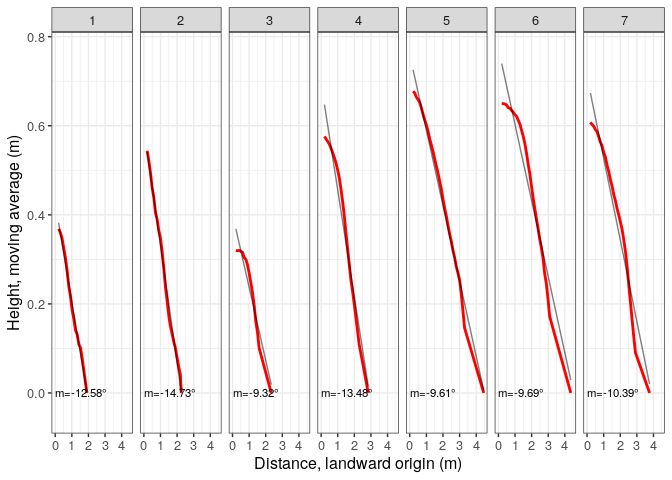
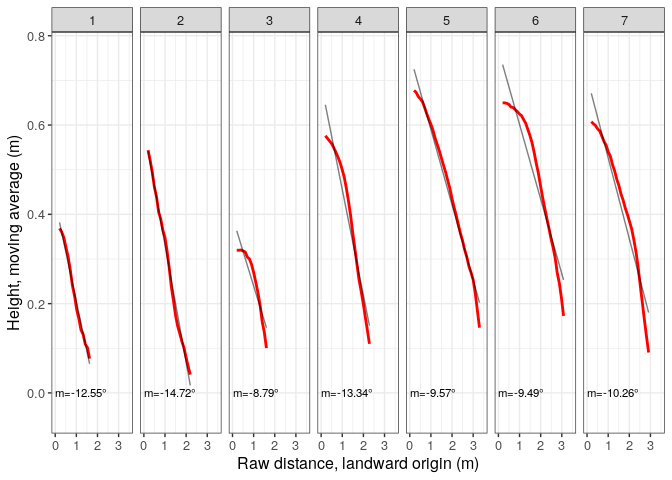
Reordered dimensional plots

diff --git a/README.md b/README.md
@@ -175,58 +175,9 @@ profData
 Profile plots
 -------------
 
-### Unit dimensions
+### Dimensionsional profiles
 
-``` r
-#Not comparable scales, neither between x and y nor across panels
-dmngrid <- profData$dimension %>% drop_units %>% ggplot() +
-  aes(x = distlm, y = hma) +
-  geom_line(col = 'red', lwd = 1, na.rm = T) +
-  scale_x_continuous(breaks = pretty_breaks()) +
-  scale_y_continuous(breaks = pretty_breaks()) +
-  expand_limits(y = -0.05) +
-  ylab('Height, moving average (m)') + xlab('Distance, landward origin (m)') +
-  geom_text(
-    data = profData$slope %>% drop_units,
-    aes(x = 0, y = 0, label = paste0('m=', round(slopeDeg,2), '°')),
-    size = 3,
-    hjust = 0,
-    parse = F
-  ) +
-  facet_wrap(~transect, nrow = 2, scales = 'free') +
-  theme_bw() + 
-  theme(text = element_text(size = 12))
-dmngrid
-```
-
-<img src="img/unnamed-chunk-5-1.png" width="100%" />
-
-``` r
-
-#Not comparable scales between x and y
-dmngrid +
-  stat_smooth(
-    aes(x = distlm, y = hma), geom = 'line', color = 'black',
-    alpha = 0.5, formula = y~x, method = 'lm', na.rm = T) +
-  facet_grid(~transect) 
-```
-
-<img src="img/unnamed-chunk-5-2.png" width="100%" />
-
-``` r
-#Equal xy scales, no vertical exaggeration
-dmngrid + facet_wrap(~transect, nrow = 7) + coord_equal() #Not so informative but panels are comparable
-```
-
-<img src="img/unnamed-chunk-6-1.png" width="100%" />
-
-``` r
-
-#Equal scales, vertical exaggeration by 2x
-dmngrid + facet_wrap(~transect, nrow = 7) + coord_equal(ratio = 2)
-```
-
-<img src="img/unnamed-chunk-6-2.png" width="100%" />
+#### The profile stretches exactly up to the actual digitized extension
 
 ``` r
 #Raw distance
@@ -250,7 +201,7 @@ dmngridrawd <- profData$dimension %>% drop_units %>% ggplot() +
 dmngridrawd
 ```
 
-<img src="img/unnamed-chunk-7-1.png" width="100%" />
+<img src="img/unnamed-chunk-5-1.png" width="100%" />
 
 ``` r
 
@@ -262,11 +213,64 @@ dmngridrawd +
   facet_grid(~transect) 
 ```
 
-<img src="img/unnamed-chunk-7-2.png" width="100%" />
+<img src="img/unnamed-chunk-5-2.png" width="100%" />
 
 ``` r
 #Equal xy scales, no vertical exaggeration
 dmngridrawd + facet_wrap(~transect, nrow = 7) + coord_equal() #Not so informative but panels are comparable
+```
+
+<img src="img/unnamed-chunk-6-1.png" width="100%" />
+
+``` r
+
+#Equal scales, vertical exaggeration by 2x
+dmngridrawd + facet_wrap(~transect, nrow = 7) + coord_equal(ratio = 2)
+```
+
+<img src="img/unnamed-chunk-6-2.png" width="100%" />
+
+#### Extending the profile to a conventionally chosen zero using linear regression
+
+``` r
+#Not comparable scales, neither between x and y nor across panels
+dmngrid <- profData$dimension %>% drop_units %>% ggplot() +
+  aes(x = distlm, y = hma) +
+  geom_line(col = 'red', lwd = 1, na.rm = T) +
+  scale_x_continuous(breaks = pretty_breaks()) +
+  scale_y_continuous(breaks = pretty_breaks()) +
+  expand_limits(y = -0.05) +
+  ylab('Height, moving average (m)') + xlab('Distance, landward origin (m)') +
+  geom_text(
+    data = profData$slope %>% drop_units,
+    aes(x = 0, y = 0, label = paste0('m=', round(slopeDeg,2), '°')),
+    size = 3,
+    hjust = 0,
+    parse = F
+  ) +
+  facet_wrap(~transect, nrow = 2, scales = 'free') +
+  theme_bw() + 
+  theme(text = element_text(size = 12))
+dmngrid
+```
+
+<img src="img/unnamed-chunk-7-1.png" width="100%" />
+
+``` r
+
+#Not comparable scales between x and y
+dmngrid +
+  stat_smooth(
+    aes(x = distlm, y = hma), geom = 'line', color = 'black',
+    alpha = 0.5, formula = y~x, method = 'lm', na.rm = T) +
+  facet_grid(~transect) 
+```
+
+<img src="img/unnamed-chunk-7-2.png" width="100%" />
+
+``` r
+#Equal xy scales, no vertical exaggeration
+dmngrid + facet_wrap(~transect, nrow = 7) + coord_equal() #Not so informative but panels are comparable
 ```
 
 <img src="img/unnamed-chunk-8-1.png" width="100%" />
@@ -274,7 +278,7 @@ dmngridrawd + facet_wrap(~transect, nrow = 7) + coord_equal() #Not so informativ
 ``` r
 
 #Equal scales, vertical exaggeration by 2x
-dmngridrawd + facet_wrap(~transect, nrow = 7) + coord_equal(ratio = 2)
+dmngrid + facet_wrap(~transect, nrow = 7) + coord_equal(ratio = 2)
 ```
 
 <img src="img/unnamed-chunk-8-2.png" width="100%" />
